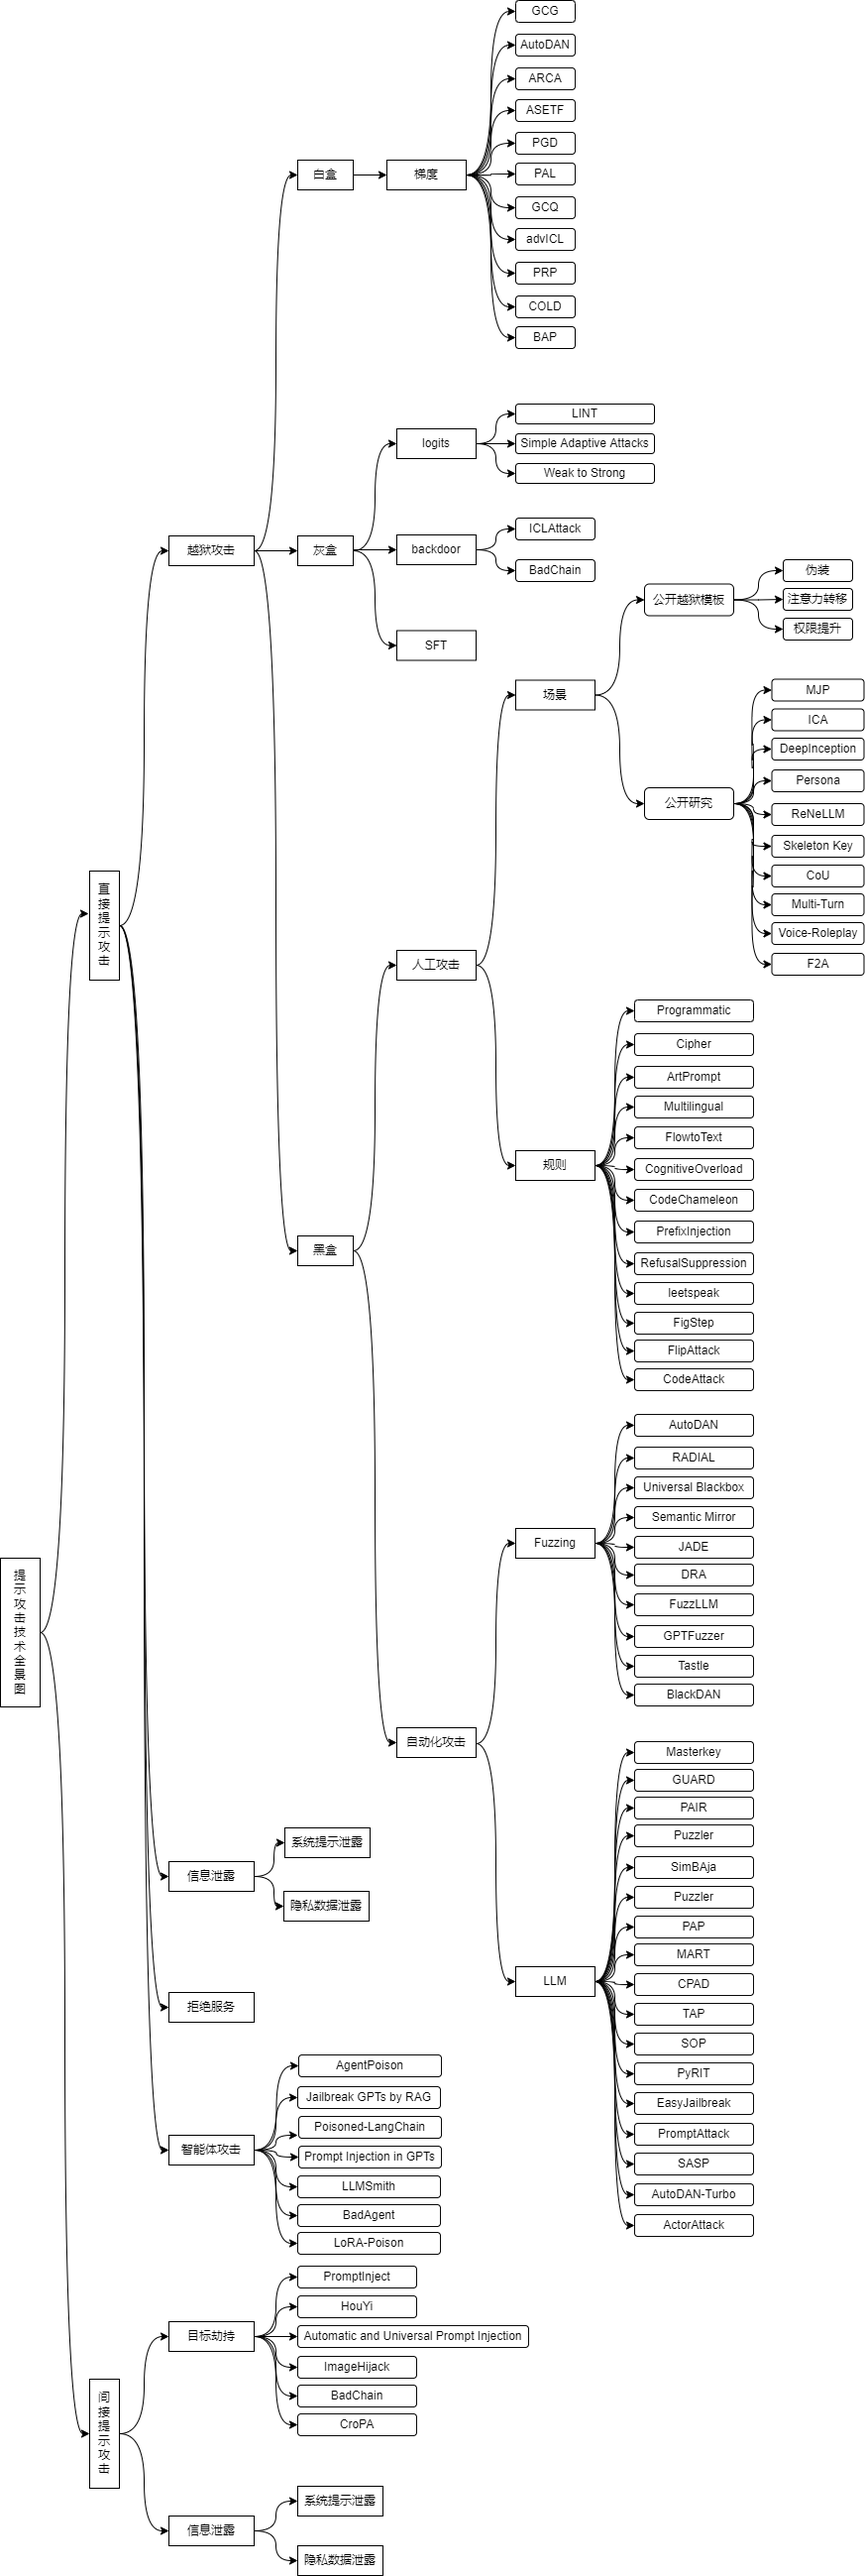
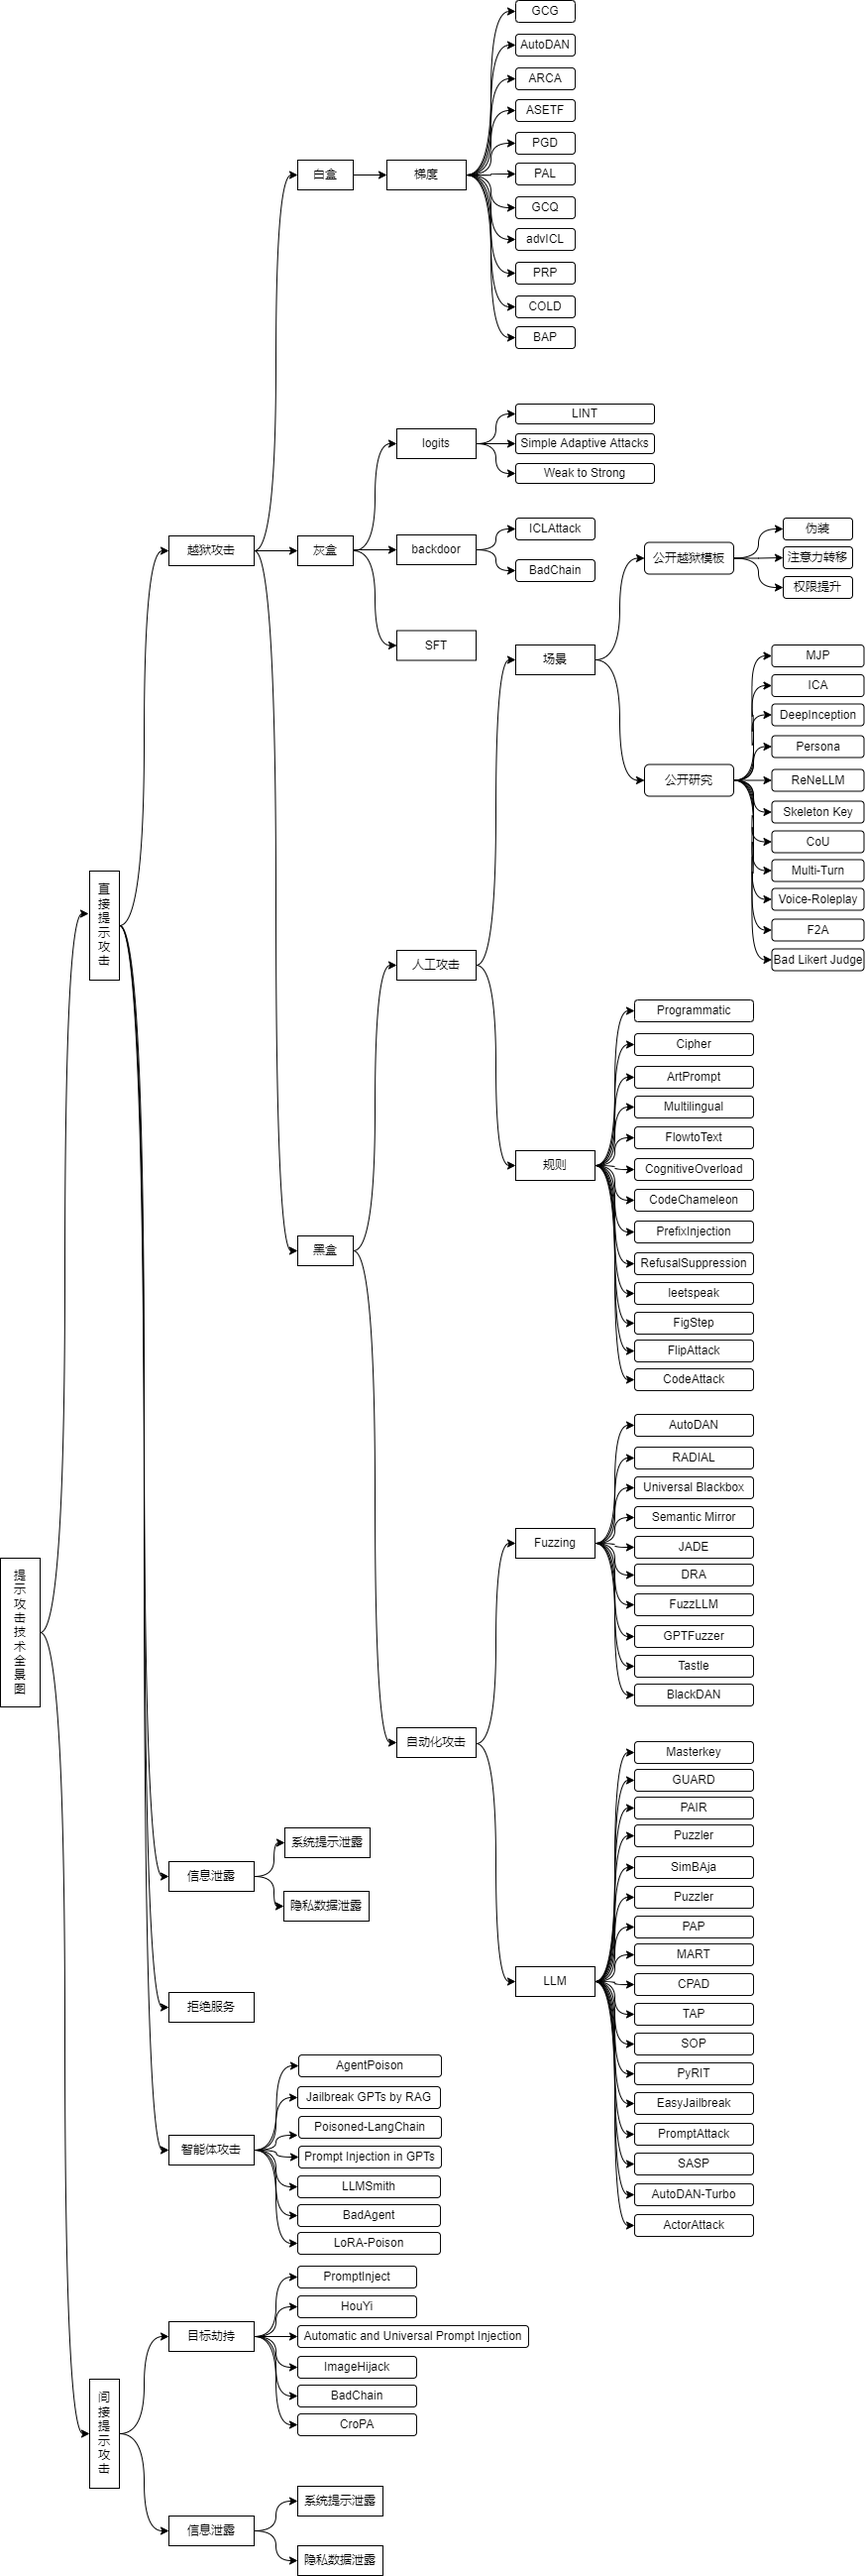
update

diff --git a/_posts/2024-07-30-a-taxonomy-of-LLM-prompt-attack.md b/_posts/2024-07-30-a-taxonomy-of-LLM-prompt-attack.md
@@ -269,6 +269,10 @@ excerpt: A taxonomy of LLM prompt attack
 ![](/assets/img/llm_sec/prompt_attack78.png)
 ![](/assets/img/llm_sec/prompt_attack79.png)
 
+##### [Bad Likert Judge](https://unit42.paloaltonetworks.com/multi-turn-technique-jailbreaks-llms/)
+本人作者提出了一种基于大模型评估能力进行越狱的多轮方法，首先给定评估打分标准，然后让大模型为每个分值生成相应的例子
+![](/assets/img/llm_sec/prompt_attack83.png)
+
 #### 基于规则
 ![](/assets/img/llm_sec/prompt_attack4.png)
 

diff --git a/_posts/2021-04-19-useful-git-repository-research.md b/_posts/2021-04-19-useful-git-repository-research.md
@@ -370,6 +370,7 @@ excerpt: useful git repository (研究篇)
 - [struct_sanitizer - 保护结构体中的函数指针不被篡改](https://github.com/YunDingLab/struct_sanitizer)
 - [BoKASAN - 二进制插桩](https://github.com/seclab-yonsei/BoKASAN)
 - [GWPScan - 低成本概率插桩](https://github.com/google/gwpsan)
+- [KernelGPT - 利用大模型生成syzkaller的spec](https://github.com/ise-uiuc/KernelGPT/)
 
 ### 其他
 
